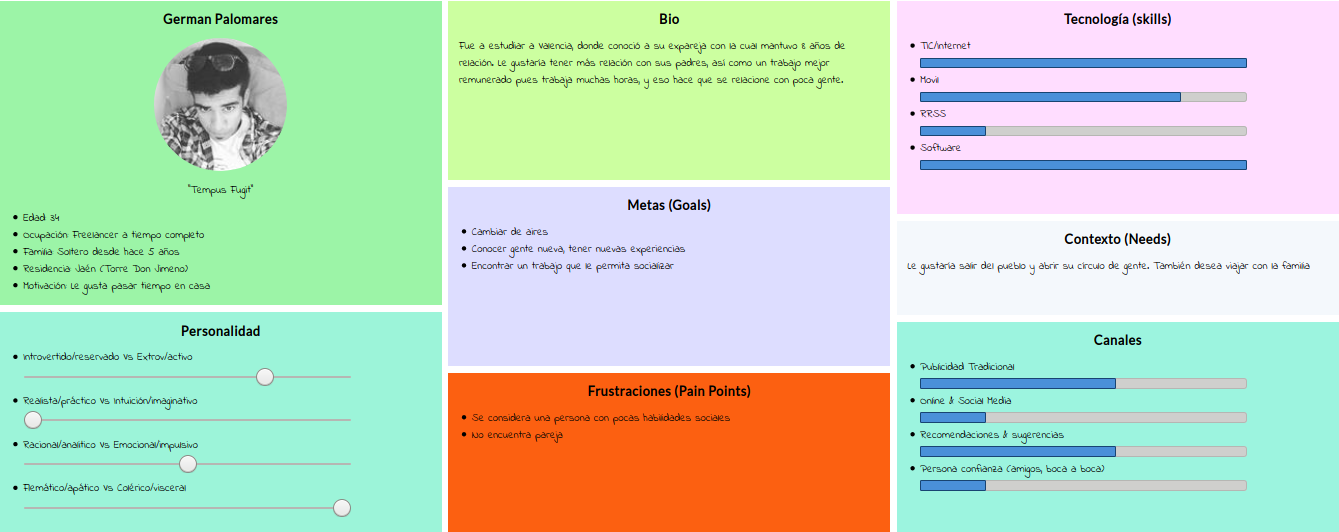
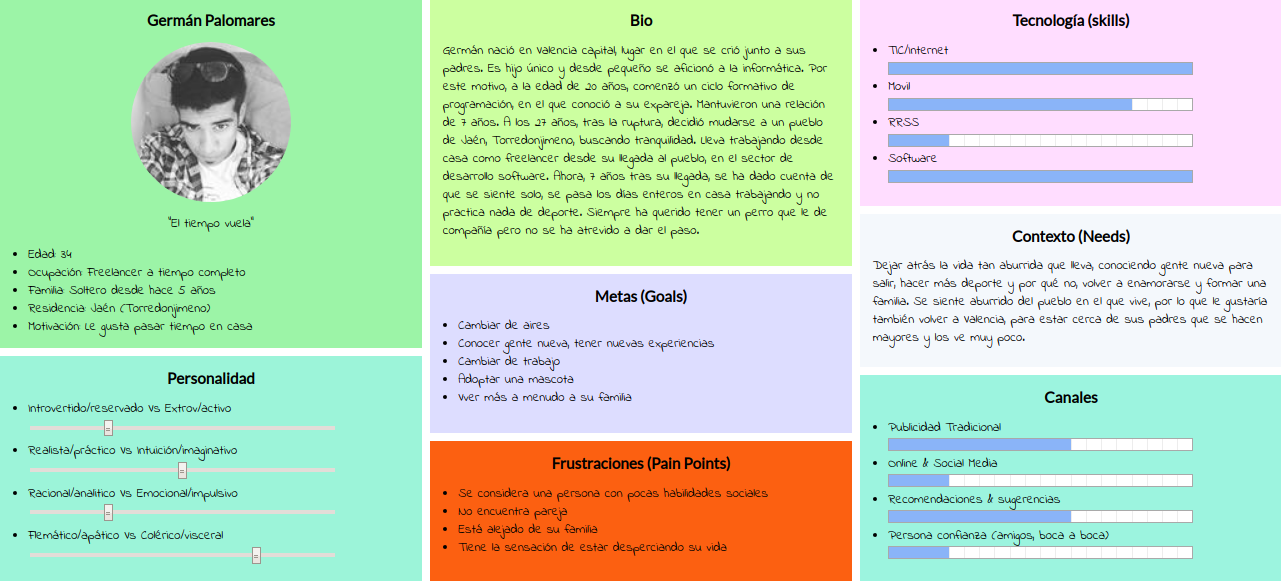
Cambios en la bio de Germán

diff --git a/P1/ficheros plantilla/Persona.js b/P1/ficheros plantilla/Persona.js
@@ -69,7 +69,7 @@ angular.module("angular", [])
 					{ Name: "Software", Value: 5 }
 					
 				], 
-				Contextos: "Dejar atrás la vida tan aburrida que lleva. Le gustaría conocer gente nueva " +
+				Contextos: "Dejar atrás la vida tan aburrida que lleva, conociendo gente nueva " +
 				"para salir, hacer más deporte y por qué no, volver a enamorarse y formar una familia." +
 				" Se siente aburrido del pueblo en el que vive, por lo que le gustaría también volver a " + 
 				"Valencia, para estar cerca de sus padres que se hacen mayores y los ve muy poco.",  
